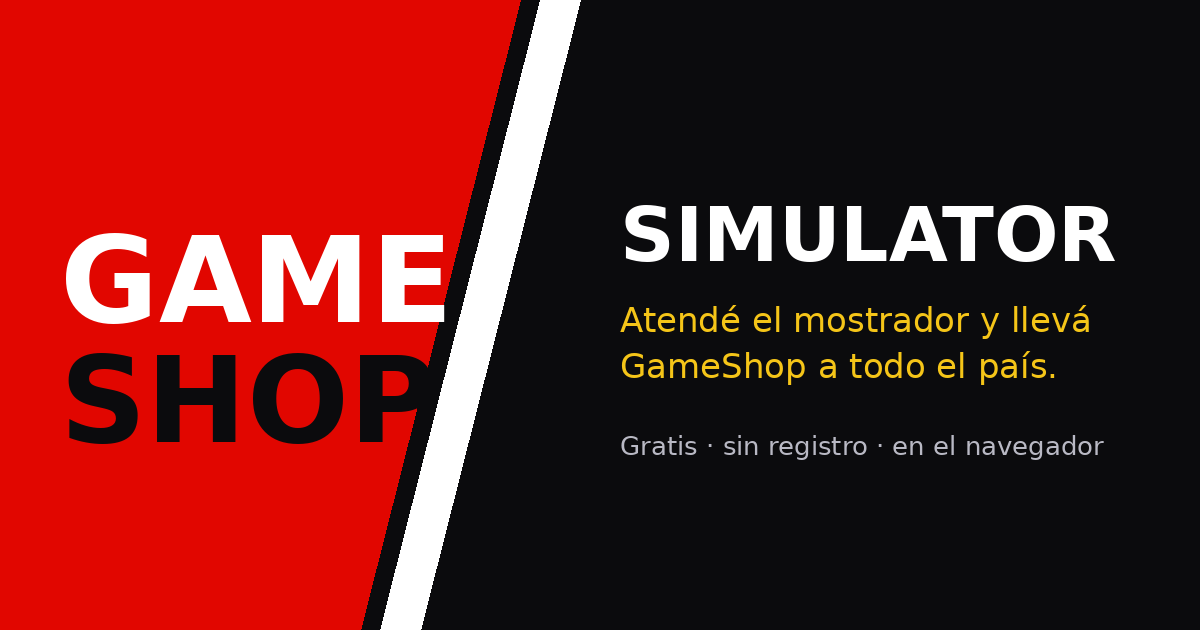
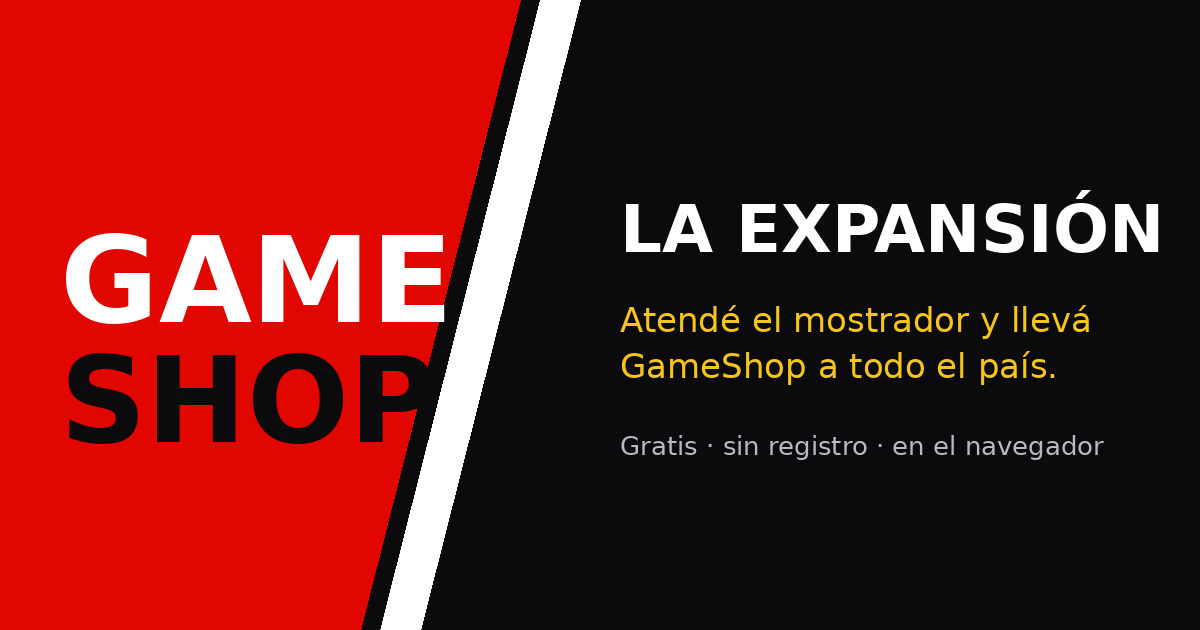
El juego pasa a llamarse GameShop: La Expansión
Claude-Session: https://claude.ai/code/session_01VASmj6iemhDKArf5i2fbiG

Changed region(s): [[0.5242, 0.3016, 0.9867, 0.4222]]

diff --git a/dist/index.html b/dist/index.html
@@ -3,12 +3,12 @@
 <head>
 <meta charset="utf-8">
 <meta name="viewport" content="width=device-width, initial-scale=1, maximum-scale=1, user-scalable=no, viewport-fit=cover">
-<title>GameShop Simulator</title>
-<meta name="description" content="GameShop Simulator: atendé el mostrador y llevá GameShop a todo el país. Juego gratis, sin registro.">
+<title>GameShop: La Expansión</title>
+<meta name="description" content="GameShop: La Expansión. Atendé el mostrador y llevá GameShop a todo el país. Juego gratis, sin registro.">
 <meta name="theme-color" content="#000000">
 <meta name="robots" content="noindex">
 <meta property="og:type" content="website">
-<meta property="og:title" content="GameShop Simulator">
+<meta property="og:title" content="GameShop: La Expansión">
 <meta property="og:description" content="¿Te animás a un turno en GameShop? Atendé el mostrador, cobrá, armá PC y abrí sucursales en todo el país. Gratis y sin registro.">
 <meta property="og:image" content="https://calimbo2026.github.io/gameshop-simulator/og.png">
 <meta property="og:image:width" content="1200">
@@ -499,6 +499,8 @@ body.snow #rain { background-color: rgba(220, 235, 250, .06); background-image: 
 .wb-m > b { flex-wrap: nowrap; white-space: nowrap; } .wbtn .hc-d { flex: none; }
 .wb-m { overflow: hidden; } .wb-m > * { min-width: 0; } .wb-m > b { font-size: clamp(17px, 5.4vw, 21px); } .wb-m > small { display: flex; align-items: center; gap: 7px; } .wb-m > small .hc-d { flex: none; }
 
+.sub { letter-spacing: 6px; margin-left: 6px; white-space: nowrap; }
+
 </style>
 </head>
 <body>
@@ -546,7 +548,7 @@ body.snow #rain { background-color: rgba(220, 235, 250, .06); background-image: 
   <div class="col">
     <div>
       <img class="logo" id="logoImg" alt="GameShop">
-      <div class="sub">SIMULATOR</div>
+      <div class="sub">LA EXPANSIÓN</div>
       <p class="tag">Entrá. Elegí. Sobreviví al turno.</p>
       <p class="rank" id="rankT"></p>
     </div>
@@ -1505,7 +1507,7 @@ GS.FINAL = {
     'Gracias por jugar. Y acordate: 10% OFF en efectivo y transferencia. Eso no cambia nunca.'
   ],
   crowd: ['¡Bravo!', '¡Grande!', '¡Ídolo!', '¡Así se atiende!', '¡Que hable!', '¡Aplausos!', '¿Hay descuento por el festejo?', '¡Esto lo subo a mi canal!'],
-  card: ['Sobreviví a {n} jornadas en GameShop.', 'Atendí {c} clientes y sigo en pie.', 'Mi cordura: {k}%. La de Brian: sin datos.']
+  card: ['Sobreviví a {n} jornadas en GameShop.', 'Atendí {c} clientes y sigo en pie.', 'Llevando GameShop a todo el país. Brian: durmiendo.']
 };
 
 /* Datos de los minijuegos nuevos */
@@ -4740,7 +4742,7 @@ GS.Game = (function () {
       g.save(); g.globalAlpha = 0.9; stripe(120, 46, '#ff0000'); stripe(196, 30, '#fff'); stripe(W_ - 20, 46, '#ff0000'); stripe(W_ - 96, 30, '#fff'); g.restore();
       g.textAlign = 'center'; g.textBaseline = 'alphabetic';
       if (im[0]) { const lw = 600, lh = lw * im[0].height / im[0].width; g.drawImage(im[0], (W_ - lw) / 2, 78, lw, lh); }
-      g.fillStyle = '#fff'; g.font = F(58, '400'); g.fillText('S I M U L A T O R', W_ / 2, 300);
+      g.fillStyle = '#fff'; g.font = F(58, '400'); g.fillText('L A   E X P A N S I Ó N', W_ / 2, 300);
       // personaje en un círculo
       g.fillStyle = '#fff'; g.beginPath(); g.arc(W_ / 2, 560, 218, 0, 7); g.fill(); g.fillStyle = '#e9e9ee'; g.beginPath(); g.arc(W_ / 2, 560, 204, 0, 7); g.fill();
       if (im[1]) { g.save(); g.beginPath(); g.arc(W_ / 2, 560, 204, 0, 7); g.clip(); try { g.drawImage(im[1], W_ / 2 - 190, 372, 380, 472); } catch (e) {} g.restore(); }
@@ -4764,14 +4766,14 @@ GS.Game = (function () {
     drawCard(fin).then(cv => {
       let data = ''; try { data = cv.toDataURL('image/png'); } catch (e) {}
       if (!data) return modal('<h2>Tu tarjeta</h2><p>Este navegador no pudo armar la imagen. Probá con una captura de pantalla del cierre de caja.</p><button class="btn" data-close>Cerrar</button>');
-      modal('<h2>Tu tarjeta</h2><img class="cardimg" id="cardImg" alt="Tarjeta de GameShop Simulator" src="' + data + '"><button class="btn" id="cardShare" hidden>Compartir</button>' +
-        '<a class="btn ' + (navigator.share ? 'ghost' : '') + '" id="cardDown" download="gameshop-simulator.png" href="' + data + '">Descargar imagen</a><button class="btn ghost" data-close>Cerrar</button>');
+      modal('<h2>Tu tarjeta</h2><img class="cardimg" id="cardImg" alt="Tarjeta de GameShop: La Expansión" src="' + data + '"><button class="btn" id="cardShare" hidden>Compartir</button>' +
+        '<a class="btn ' + (navigator.share ? 'ghost' : '') + '" id="cardDown" download="gameshop-la-expansion.png" href="' + data + '">Descargar imagen</a><button class="btn ghost" data-close>Cerrar</button>');
       cv.toBlob(blob => {
         if (!blob || !navigator.share || !window.File || !$('cardShare')) return;
-        const file = new File([blob], 'gameshop-simulator.png', { type: 'image/png' });
+        const file = new File([blob], 'gameshop-la-expansion.png', { type: 'image/png' });
         if (navigator.canShare && !navigator.canShare({ files: [file] })) return;
         $('cardShare').hidden = false;
-        $('cardShare').addEventListener('click', () => { GS.track('compartir', {}); navigator.share({ files: [file], title: 'GameShop Simulator', text: GS.FINAL.card[0].replace('{n}', Math.max(1, GS.Store.get('days') || 0)) + ' ¿Te animás a un turno?' }).catch(() => {}); });
+        $('cardShare').addEventListener('click', () => { GS.track('compartir', {}); navigator.share({ files: [file], title: 'GameShop: La Expansión', text: GS.FINAL.card[0].replace('{n}', Math.max(1, GS.Store.get('days') || 0)) + ' ¿Te animás a un turno?' }).catch(() => {}); });
       }, 'image/png');
     });
   }
@@ -4780,7 +4782,7 @@ GS.Game = (function () {
   function showMetrics() {
     const ms = GS.Store.get('metrics') || [], mmss = v => Math.floor(v / 60) + ':' + String(v % 60).padStart(2, '0'), avg = k => ms.length ? Math.round(ms.reduce((a, m) => a + m[k], 0) / ms.length) : 0;
     const by = {}; ms.forEach(m => { for (const k in m.mt) { const b = by[k] = by[k] || { n: 0, s: 0, e: 0 }; b.n += m.mt[k].n; b.s += m.mt[k].s; b.e += m.mt[k].e; } });
-    const txt = 'GameShop Simulator ' + C.version + ' · datos de prueba\n' + ms.map(m => 'J' + m.n + ' ' + m.modo + ' · ' + mmss(m.seg) + ' (minijuegos ' + mmss(m.mg) + ') · monedas ' + m.monedas + ' · atendidos ' + m.at + ' · perdidos ' + m.per + ' · tareas ' + m.tar + ' (tarde ' + m.tarde + ') · errores ' + m.err + ' · rep ' + m.rep).join('\n') +
+    const txt = 'GameShop: La Expansión ' + C.version + ' · datos de prueba\n' + ms.map(m => 'J' + m.n + ' ' + m.modo + ' · ' + mmss(m.seg) + ' (minijuegos ' + mmss(m.mg) + ') · monedas ' + m.monedas + ' · atendidos ' + m.at + ' · perdidos ' + m.per + ' · tareas ' + m.tar + ' (tarde ' + m.tarde + ') · errores ' + m.err + ' · rep ' + m.rep).join('\n') +
       '\n' + Object.keys(by).map(k => k + ': ' + by[k].n + ' veces, ' + (by[k].s / Math.max(1, by[k].n)).toFixed(1) + ' s c/u, ' + by[k].e + ' errores').join('\n');
     modal('<h2>Datos de prueba</h2>' + (ms.length ? '<p>Últimas ' + ms.length + ' jornadas. Promedio: <b>' + mmss(avg('seg')) + '</b> por jornada y <b>🪙 ' + avg('monedas') + '</b>. La meta es unos 3:00.</p>' +
       '<div class="mtable"><table><tr><th>Jorn.</th><th>Duración</th><th>🪙</th><th>Atend.</th><th>Perd.</th><th>Errores</th></tr>' + ms.slice().reverse().map(m => '<tr><td>' + m.n + (m.modo === 'Tranquilo' ? ' 🧘' : '') + '</td><td>' + mmss(m.seg) + '</td><td>' + m.monedas + '</td><td>' + m.at + '</td><td>' + m.per + '</td><td>' + m.err + '</td></tr>').join('') + '</table></div>' +

diff --git a/index.html b/index.html
@@ -3,12 +3,12 @@
 <head>
 <meta charset="utf-8">
 <meta name="viewport" content="width=device-width, initial-scale=1, maximum-scale=1, user-scalable=no, viewport-fit=cover">
-<title>GameShop Simulator</title>
-<meta name="description" content="GameShop Simulator: atendé el mostrador y llevá GameShop a todo el país. Juego gratis, sin registro.">
+<title>GameShop: La Expansión</title>
+<meta name="description" content="GameShop: La Expansión. Atendé el mostrador y llevá GameShop a todo el país. Juego gratis, sin registro.">
 <meta name="theme-color" content="#000000">
 <meta name="robots" content="noindex">
 <meta property="og:type" content="website">
-<meta property="og:title" content="GameShop Simulator">
+<meta property="og:title" content="GameShop: La Expansión">
 <meta property="og:description" content="¿Te animás a un turno en GameShop? Atendé el mostrador, cobrá, armá PC y abrí sucursales en todo el país. Gratis y sin registro.">
 <meta property="og:image" content="https://calimbo2026.github.io/gameshop-simulator/og.png">
 <meta property="og:image:width" content="1200">
@@ -499,6 +499,8 @@ body.snow #rain { background-color: rgba(220, 235, 250, .06); background-image: 
 .wb-m > b { flex-wrap: nowrap; white-space: nowrap; } .wbtn .hc-d { flex: none; }
 .wb-m { overflow: hidden; } .wb-m > * { min-width: 0; } .wb-m > b { font-size: clamp(17px, 5.4vw, 21px); } .wb-m > small { display: flex; align-items: center; gap: 7px; } .wb-m > small .hc-d { flex: none; }
 
+.sub { letter-spacing: 6px; margin-left: 6px; white-space: nowrap; }
+
 </style>
 </head>
 <body>
@@ -546,7 +548,7 @@ body.snow #rain { background-color: rgba(220, 235, 250, .06); background-image: 
   <div class="col">
     <div>
       <img class="logo" id="logoImg" alt="GameShop">
-      <div class="sub">SIMULATOR</div>
+      <div class="sub">LA EXPANSIÓN</div>
       <p class="tag">Entrá. Elegí. Sobreviví al turno.</p>
       <p class="rank" id="rankT"></p>
     </div>
@@ -1505,7 +1507,7 @@ GS.FINAL = {
     'Gracias por jugar. Y acordate: 10% OFF en efectivo y transferencia. Eso no cambia nunca.'
   ],
   crowd: ['¡Bravo!', '¡Grande!', '¡Ídolo!', '¡Así se atiende!', '¡Que hable!', '¡Aplausos!', '¿Hay descuento por el festejo?', '¡Esto lo subo a mi canal!'],
-  card: ['Sobreviví a {n} jornadas en GameShop.', 'Atendí {c} clientes y sigo en pie.', 'Mi cordura: {k}%. La de Brian: sin datos.']
+  card: ['Sobreviví a {n} jornadas en GameShop.', 'Atendí {c} clientes y sigo en pie.', 'Llevando GameShop a todo el país. Brian: durmiendo.']
 };
 
 /* Datos de los minijuegos nuevos */
@@ -4740,7 +4742,7 @@ GS.Game = (function () {
       g.save(); g.globalAlpha = 0.9; stripe(120, 46, '#ff0000'); stripe(196, 30, '#fff'); stripe(W_ - 20, 46, '#ff0000'); stripe(W_ - 96, 30, '#fff'); g.restore();
       g.textAlign = 'center'; g.textBaseline = 'alphabetic';
       if (im[0]) { const lw = 600, lh = lw * im[0].height / im[0].width; g.drawImage(im[0], (W_ - lw) / 2, 78, lw, lh); }
-      g.fillStyle = '#fff'; g.font = F(58, '400'); g.fillText('S I M U L A T O R', W_ / 2, 300);
+      g.fillStyle = '#fff'; g.font = F(58, '400'); g.fillText('L A   E X P A N S I Ó N', W_ / 2, 300);
       // personaje en un círculo
       g.fillStyle = '#fff'; g.beginPath(); g.arc(W_ / 2, 560, 218, 0, 7); g.fill(); g.fillStyle = '#e9e9ee'; g.beginPath(); g.arc(W_ / 2, 560, 204, 0, 7); g.fill();
       if (im[1]) { g.save(); g.beginPath(); g.arc(W_ / 2, 560, 204, 0, 7); g.clip(); try { g.drawImage(im[1], W_ / 2 - 190, 372, 380, 472); } catch (e) {} g.restore(); }
@@ -4764,14 +4766,14 @@ GS.Game = (function () {
     drawCard(fin).then(cv => {
       let data = ''; try { data = cv.toDataURL('image/png'); } catch (e) {}
       if (!data) return modal('<h2>Tu tarjeta</h2><p>Este navegador no pudo armar la imagen. Probá con una captura de pantalla del cierre de caja.</p><button class="btn" data-close>Cerrar</button>');
-      modal('<h2>Tu tarjeta</h2><img class="cardimg" id="cardImg" alt="Tarjeta de GameShop Simulator" src="' + data + '"><button class="btn" id="cardShare" hidden>Compartir</button>' +
-        '<a class="btn ' + (navigator.share ? 'ghost' : '') + '" id="cardDown" download="gameshop-simulator.png" href="' + data + '">Descargar imagen</a><button class="btn ghost" data-close>Cerrar</button>');
+      modal('<h2>Tu tarjeta</h2><img class="cardimg" id="cardImg" alt="Tarjeta de GameShop: La Expansión" src="' + data + '"><button class="btn" id="cardShare" hidden>Compartir</button>' +
+        '<a class="btn ' + (navigator.share ? 'ghost' : '') + '" id="cardDown" download="gameshop-la-expansion.png" href="' + data + '">Descargar imagen</a><button class="btn ghost" data-close>Cerrar</button>');
       cv.toBlob(blob => {
         if (!blob || !navigator.share || !window.File || !$('cardShare')) return;
-        const file = new File([blob], 'gameshop-simulator.png', { type: 'image/png' });
+        const file = new File([blob], 'gameshop-la-expansion.png', { type: 'image/png' });
         if (navigator.canShare && !navigator.canShare({ files: [file] })) return;
         $('cardShare').hidden = false;
-        $('cardShare').addEventListener('click', () => { GS.track('compartir', {}); navigator.share({ files: [file], title: 'GameShop Simulator', text: GS.FINAL.card[0].replace('{n}', Math.max(1, GS.Store.get('days') || 0)) + ' ¿Te animás a un turno?' }).catch(() => {}); });
+        $('cardShare').addEventListener('click', () => { GS.track('compartir', {}); navigator.share({ files: [file], title: 'GameShop: La Expansión', text: GS.FINAL.card[0].replace('{n}', Math.max(1, GS.Store.get('days') || 0)) + ' ¿Te animás a un turno?' }).catch(() => {}); });
       }, 'image/png');
     });
   }
@@ -4780,7 +4782,7 @@ GS.Game = (function () {
   function showMetrics() {
     const ms = GS.Store.get('metrics') || [], mmss = v => Math.floor(v / 60) + ':' + String(v % 60).padStart(2, '0'), avg = k => ms.length ? Math.round(ms.reduce((a, m) => a + m[k], 0) / ms.length) : 0;
     const by = {}; ms.forEach(m => { for (const k in m.mt) { const b = by[k] = by[k] || { n: 0, s: 0, e: 0 }; b.n += m.mt[k].n; b.s += m.mt[k].s; b.e += m.mt[k].e; } });
-    const txt = 'GameShop Simulator ' + C.version + ' · datos de prueba\n' + ms.map(m => 'J' + m.n + ' ' + m.modo + ' · ' + mmss(m.seg) + ' (minijuegos ' + mmss(m.mg) + ') · monedas ' + m.monedas + ' · atendidos ' + m.at + ' · perdidos ' + m.per + ' · tareas ' + m.tar + ' (tarde ' + m.tarde + ') · errores ' + m.err + ' · rep ' + m.rep).join('\n') +
+    const txt = 'GameShop: La Expansión ' + C.version + ' · datos de prueba\n' + ms.map(m => 'J' + m.n + ' ' + m.modo + ' · ' + mmss(m.seg) + ' (minijuegos ' + mmss(m.mg) + ') · monedas ' + m.monedas + ' · atendidos ' + m.at + ' · perdidos ' + m.per + ' · tareas ' + m.tar + ' (tarde ' + m.tarde + ') · errores ' + m.err + ' · rep ' + m.rep).join('\n') +
       '\n' + Object.keys(by).map(k => k + ': ' + by[k].n + ' veces, ' + (by[k].s / Math.max(1, by[k].n)).toFixed(1) + ' s c/u, ' + by[k].e + ' errores').join('\n');
     modal('<h2>Datos de prueba</h2>' + (ms.length ? '<p>Últimas ' + ms.length + ' jornadas. Promedio: <b>' + mmss(avg('seg')) + '</b> por jornada y <b>🪙 ' + avg('monedas') + '</b>. La meta es unos 3:00.</p>' +
       '<div class="mtable"><table><tr><th>Jorn.</th><th>Duración</th><th>🪙</th><th>Atend.</th><th>Perd.</th><th>Errores</th></tr>' + ms.slice().reverse().map(m => '<tr><td>' + m.n + (m.modo === 'Tranquilo' ? ' 🧘' : '') + '</td><td>' + mmss(m.seg) + '</td><td>' + m.monedas + '</td><td>' + m.at + '</td><td>' + m.per + '</td><td>' + m.err + '</td></tr>').join('') + '</table></div>' +

diff --git a/src/game.js b/src/game.js
@@ -1220,7 +1220,7 @@ GS.Game = (function () {
       g.save(); g.globalAlpha = 0.9; stripe(120, 46, '#ff0000'); stripe(196, 30, '#fff'); stripe(W_ - 20, 46, '#ff0000'); stripe(W_ - 96, 30, '#fff'); g.restore();
       g.textAlign = 'center'; g.textBaseline = 'alphabetic';
       if (im[0]) { const lw = 600, lh = lw * im[0].height / im[0].width; g.drawImage(im[0], (W_ - lw) / 2, 78, lw, lh); }
-      g.fillStyle = '#fff'; g.font = F(58, '400'); g.fillText('S I M U L A T O R', W_ / 2, 300);
+      g.fillStyle = '#fff'; g.font = F(58, '400'); g.fillText('L A   E X P A N S I Ó N', W_ / 2, 300);
       // personaje en un círculo
       g.fillStyle = '#fff'; g.beginPath(); g.arc(W_ / 2, 560, 218, 0, 7); g.fill(); g.fillStyle = '#e9e9ee'; g.beginPath(); g.arc(W_ / 2, 560, 204, 0, 7); g.fill();
       if (im[1]) { g.save(); g.beginPath(); g.arc(W_ / 2, 560, 204, 0, 7); g.clip(); try { g.drawImage(im[1], W_ / 2 - 190, 372, 380, 472); } catch (e) {} g.restore(); }
@@ -1244,14 +1244,14 @@ GS.Game = (function () {
     drawCard(fin).then(cv => {
       let data = ''; try { data = cv.toDataURL('image/png'); } catch (e) {}
       if (!data) return modal('<h2>Tu tarjeta</h2><p>Este navegador no pudo armar la imagen. Probá con una captura de pantalla del cierre de caja.</p><button class="btn" data-close>Cerrar</button>');
-      modal('<h2>Tu tarjeta</h2><img class="cardimg" id="cardImg" alt="Tarjeta de GameShop Simulator" src="' + data + '"><button class="btn" id="cardShare" hidden>Compartir</button>' +
-        '<a class="btn ' + (navigator.share ? 'ghost' : '') + '" id="cardDown" download="gameshop-simulator.png" href="' + data + '">Descargar imagen</a><button class="btn ghost" data-close>Cerrar</button>');
+      modal('<h2>Tu tarjeta</h2><img class="cardimg" id="cardImg" alt="Tarjeta de GameShop: La Expansión" src="' + data + '"><button class="btn" id="cardShare" hidden>Compartir</button>' +
+        '<a class="btn ' + (navigator.share ? 'ghost' : '') + '" id="cardDown" download="gameshop-la-expansion.png" href="' + data + '">Descargar imagen</a><button class="btn ghost" data-close>Cerrar</button>');
       cv.toBlob(blob => {
         if (!blob || !navigator.share || !window.File || !$('cardShare')) return;
-        const file = new File([blob], 'gameshop-simulator.png', { type: 'image/png' });
+        const file = new File([blob], 'gameshop-la-expansion.png', { type: 'image/png' });
         if (navigator.canShare && !navigator.canShare({ files: [file] })) return;
         $('cardShare').hidden = false;
-        $('cardShare').addEventListener('click', () => { GS.track('compartir', {}); navigator.share({ files: [file], title: 'GameShop Simulator', text: GS.FINAL.card[0].replace('{n}', Math.max(1, GS.Store.get('days') || 0)) + ' ¿Te animás a un turno?' }).catch(() => {}); });
+        $('cardShare').addEventListener('click', () => { GS.track('compartir', {}); navigator.share({ files: [file], title: 'GameShop: La Expansión', text: GS.FINAL.card[0].replace('{n}', Math.max(1, GS.Store.get('days') || 0)) + ' ¿Te animás a un turno?' }).catch(() => {}); });
       }, 'image/png');
     });
   }
@@ -1260,7 +1260,7 @@ GS.Game = (function () {
   function showMetrics() {
     const ms = GS.Store.get('metrics') || [], mmss = v => Math.floor(v / 60) + ':' + String(v % 60).padStart(2, '0'), avg = k => ms.length ? Math.round(ms.reduce((a, m) => a + m[k], 0) / ms.length) : 0;
     const by = {}; ms.forEach(m => { for (const k in m.mt) { const b = by[k] = by[k] || { n: 0, s: 0, e: 0 }; b.n += m.mt[k].n; b.s += m.mt[k].s; b.e += m.mt[k].e; } });
-    const txt = 'GameShop Simulator ' + C.version + ' · datos de prueba\n' + ms.map(m => 'J' + m.n + ' ' + m.modo + ' · ' + mmss(m.seg) + ' (minijuegos ' + mmss(m.mg) + ') · monedas ' + m.monedas + ' · atendidos ' + m.at + ' · perdidos ' + m.per + ' · tareas ' + m.tar + ' (tarde ' + m.tarde + ') · errores ' + m.err + ' · rep ' + m.rep).join('\n') +
+    const txt = 'GameShop: La Expansión ' + C.version + ' · datos de prueba\n' + ms.map(m => 'J' + m.n + ' ' + m.modo + ' · ' + mmss(m.seg) + ' (minijuegos ' + mmss(m.mg) + ') · monedas ' + m.monedas + ' · atendidos ' + m.at + ' · perdidos ' + m.per + ' · tareas ' + m.tar + ' (tarde ' + m.tarde + ') · errores ' + m.err + ' · rep ' + m.rep).join('\n') +
       '\n' + Object.keys(by).map(k => k + ': ' + by[k].n + ' veces, ' + (by[k].s / Math.max(1, by[k].n)).toFixed(1) + ' s c/u, ' + by[k].e + ' errores').join('\n');
     modal('<h2>Datos de prueba</h2>' + (ms.length ? '<p>Últimas ' + ms.length + ' jornadas. Promedio: <b>' + mmss(avg('seg')) + '</b> por jornada y <b>🪙 ' + avg('monedas') + '</b>. La meta es unos 3:00.</p>' +
       '<div class="mtable"><table><tr><th>Jorn.</th><th>Duración</th><th>🪙</th><th>Atend.</th><th>Perd.</th><th>Errores</th></tr>' + ms.slice().reverse().map(m => '<tr><td>' + m.n + (m.modo === 'Tranquilo' ? ' 🧘' : '') + '</td><td>' + mmss(m.seg) + '</td><td>' + m.monedas + '</td><td>' + m.at + '</td><td>' + m.per + '</td><td>' + m.err + '</td></tr>').join('') + '</table></div>' +

diff --git a/src/index.template.html b/src/index.template.html
@@ -3,12 +3,12 @@
 <head>
 <meta charset="utf-8">
 <meta name="viewport" content="width=device-width, initial-scale=1, maximum-scale=1, user-scalable=no, viewport-fit=cover">
-<title>GameShop Simulator</title>
-<meta name="description" content="GameShop Simulator: atendé el mostrador y llevá GameShop a todo el país. Juego gratis, sin registro.">
+<title>GameShop: La Expansión</title>
+<meta name="description" content="GameShop: La Expansión. Atendé el mostrador y llevá GameShop a todo el país. Juego gratis, sin registro.">
 <meta name="theme-color" content="#000000">
 <meta name="robots" content="noindex">
 <meta property="og:type" content="website">
-<meta property="og:title" content="GameShop Simulator">
+<meta property="og:title" content="GameShop: La Expansión">
 <meta property="og:description" content="¿Te animás a un turno en GameShop? Atendé el mostrador, cobrá, armá PC y abrí sucursales en todo el país. Gratis y sin registro.">
 <meta property="og:image" content="/*__SITE__*/og.png">
 <meta property="og:image:width" content="1200">
@@ -64,7 +64,7 @@
   <div class="col">
     <div>
       <img class="logo" id="logoImg" alt="GameShop">
-      <div class="sub">SIMULATOR</div>
+      <div class="sub">LA EXPANSIÓN</div>
       <p class="tag">Entrá. Elegí. Sobreviví al turno.</p>
       <p class="rank" id="rankT"></p>
     </div>

diff --git a/src/style.css b/src/style.css
@@ -480,3 +480,5 @@ body.snow #rain { background-color: rgba(220, 235, 250, .06); background-image: 
 .wb-n { font-size: 13px; font-weight: 800; white-space: nowrap; } .wb-n em { font-style: normal; font-weight: 500; color: #77777f; } .wb-n.ok { color: #0a8a3d; } .wbtn .hc-d i { background: #cfcfd6; } .wbtn .hc-d i.on { background: #e10600; } .wbtn .hc-d i.cur { box-shadow: 0 0 0 2px #f5c518; }
 .wb-m > b { flex-wrap: nowrap; white-space: nowrap; } .wbtn .hc-d { flex: none; }
 .wb-m { overflow: hidden; } .wb-m > * { min-width: 0; } .wb-m > b { font-size: clamp(17px, 5.4vw, 21px); } .wb-m > small { display: flex; align-items: center; gap: 7px; } .wb-m > small .hc-d { flex: none; }
+
+.sub { letter-spacing: 6px; margin-left: 6px; white-space: nowrap; }

diff --git a/src/data.js b/src/data.js
@@ -906,7 +906,7 @@ GS.FINAL = {
     'Gracias por jugar. Y acordate: 10% OFF en efectivo y transferencia. Eso no cambia nunca.'
   ],
   crowd: ['¡Bravo!', '¡Grande!', '¡Ídolo!', '¡Así se atiende!', '¡Que hable!', '¡Aplausos!', '¿Hay descuento por el festejo?', '¡Esto lo subo a mi canal!'],
-  card: ['Sobreviví a {n} jornadas en GameShop.', 'Atendí {c} clientes y sigo en pie.', 'Mi cordura: {k}%. La de Brian: sin datos.']
+  card: ['Sobreviví a {n} jornadas en GameShop.', 'Atendí {c} clientes y sigo en pie.', 'Llevando GameShop a todo el país. Brian: durmiendo.']
 };
 
 /* Datos de los minijuegos nuevos */

diff --git a/README.md b/README.md
@@ -1,4 +1,4 @@
-# GameShop Simulator
+# GameShop: La Expansión
 
 Juego web (un solo HTML) que simula una jornada de trabajo en GameShop. Pieza de marca para `juego.gameshop.com.ar`.
 
